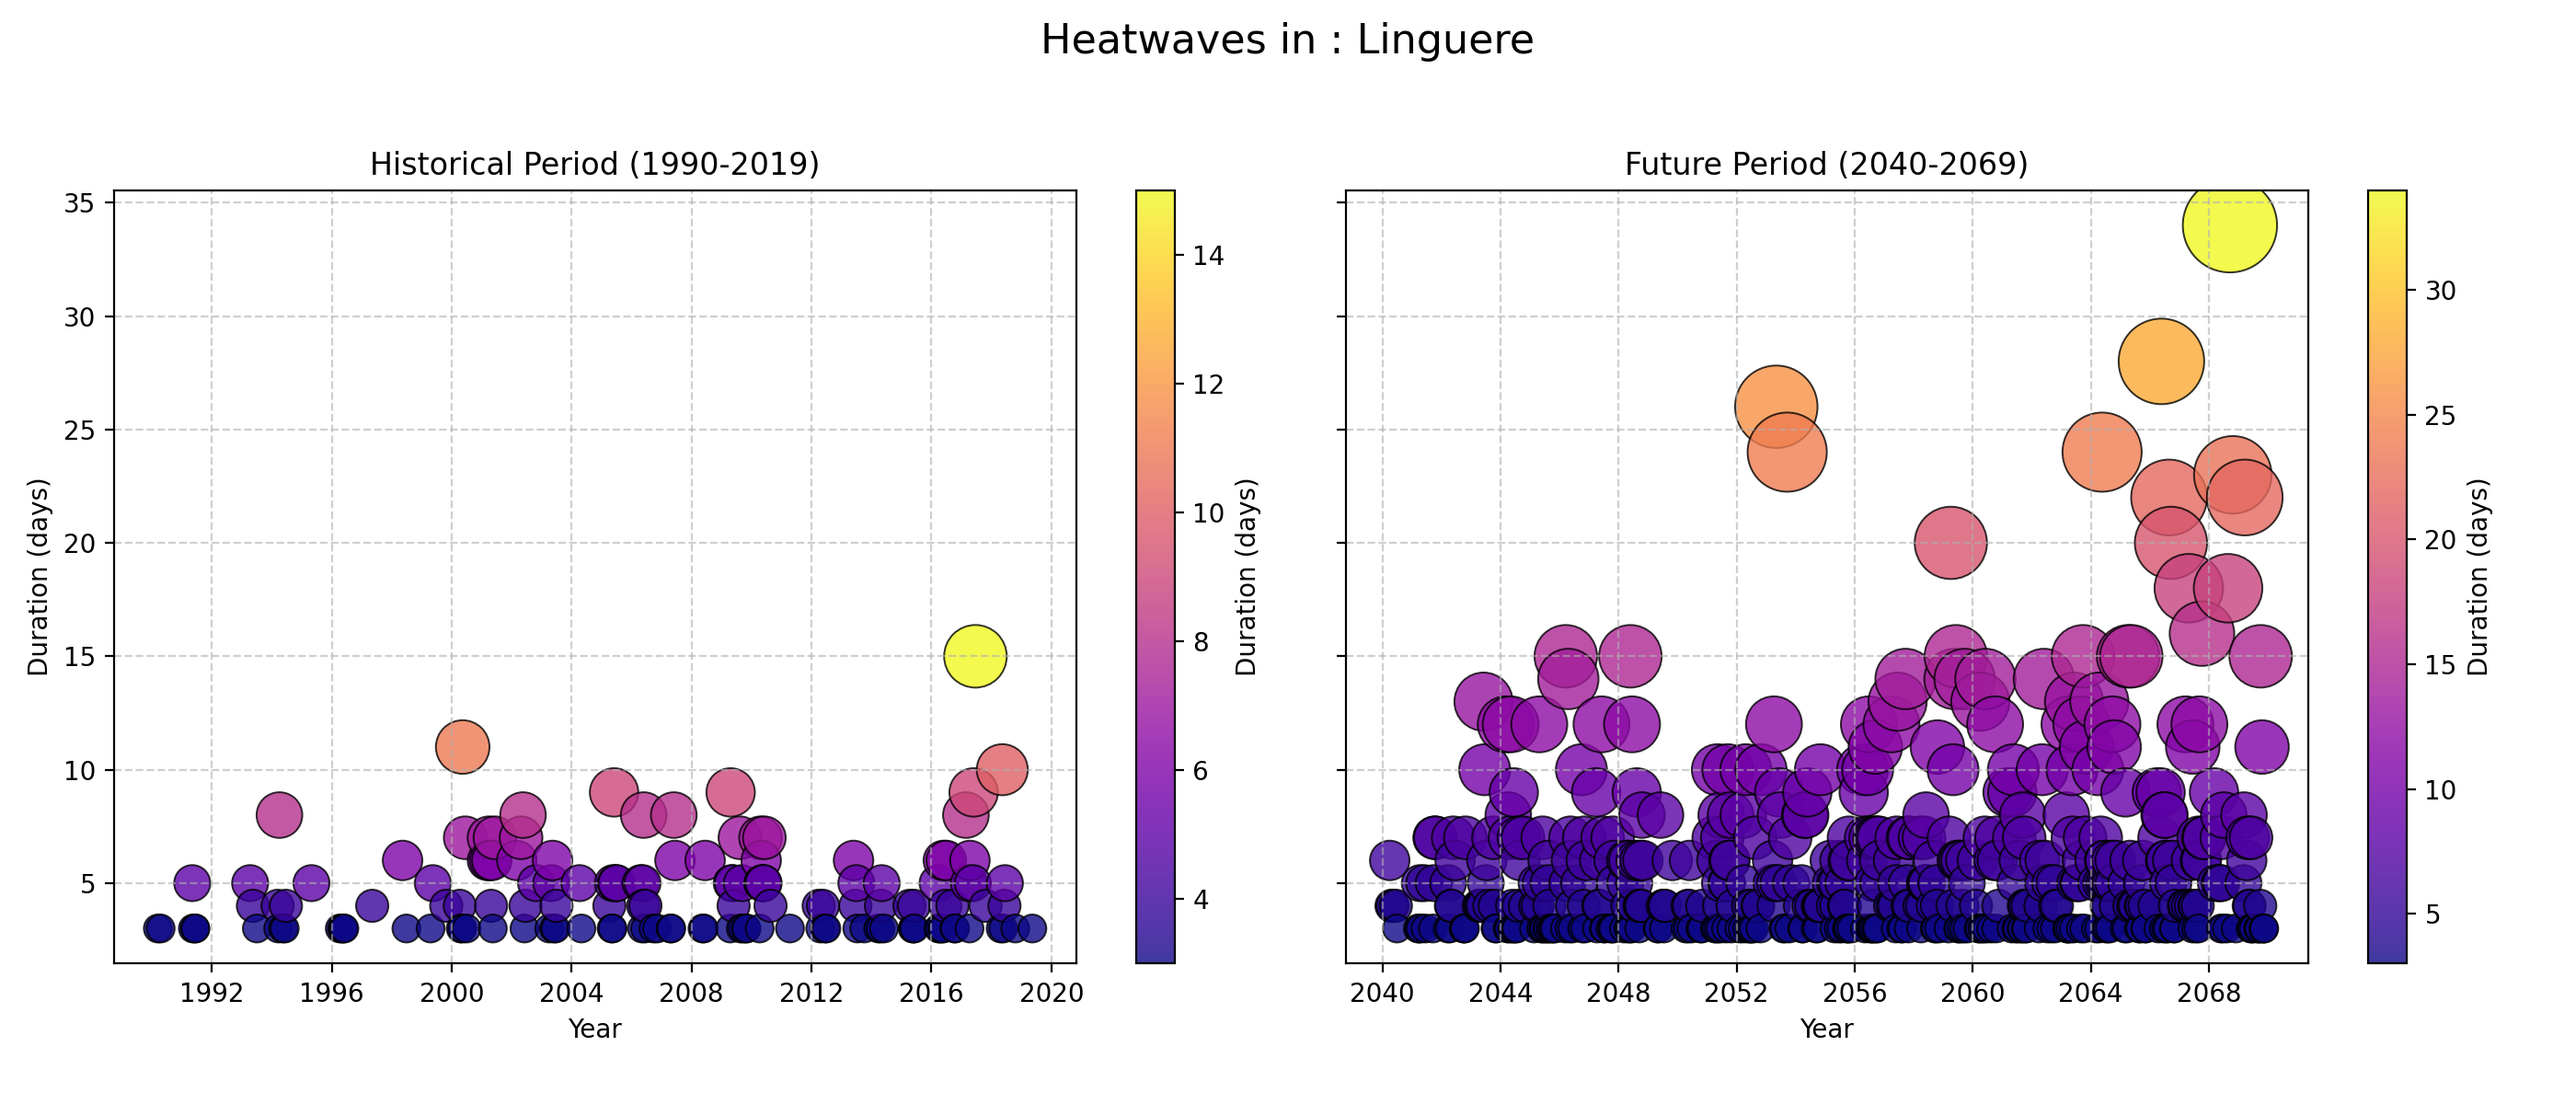
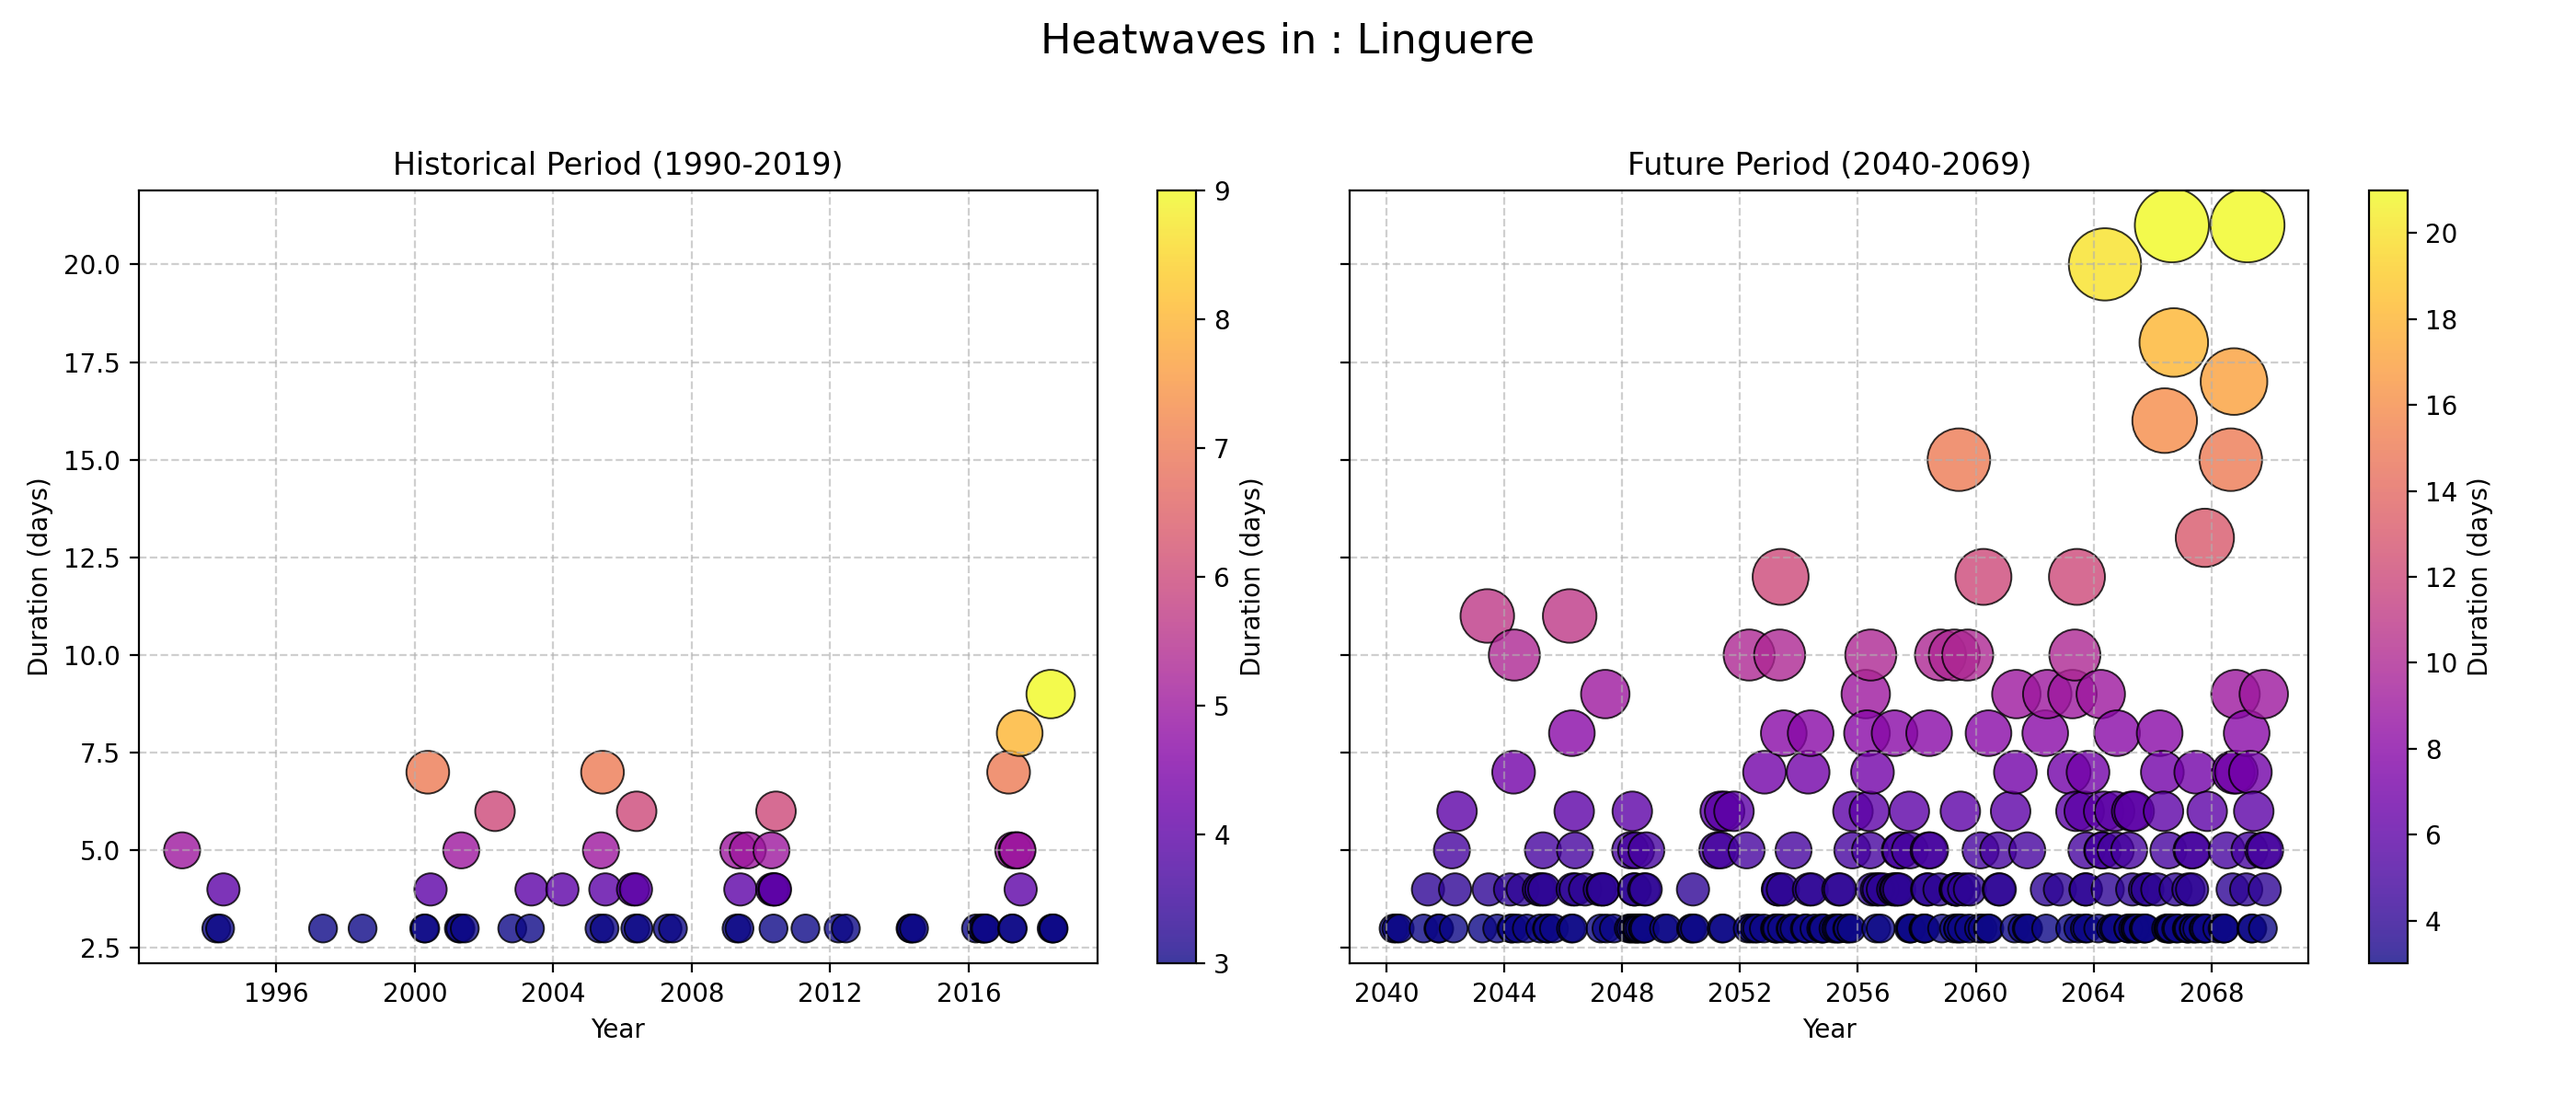
changed percentile for heatwave plot

diff --git a/scripts/heatwaves.py b/scripts/heatwaves.py
@@ -16,7 +16,7 @@ OUTPUT_DIR = "results/figures/heatwaves"
 os.makedirs(OUTPUT_DIR, exist_ok=True)
 
 min_duration = 3  # minimum consecutive hot days to count as heatwave
-percentile = 90   # percentile threshold based on historical daily maxima
+percentile = 95   # percentile threshold based on historical daily maxima
 
 
 def find_heatwave_periods(daily_max, threshold, min_duration=3):
